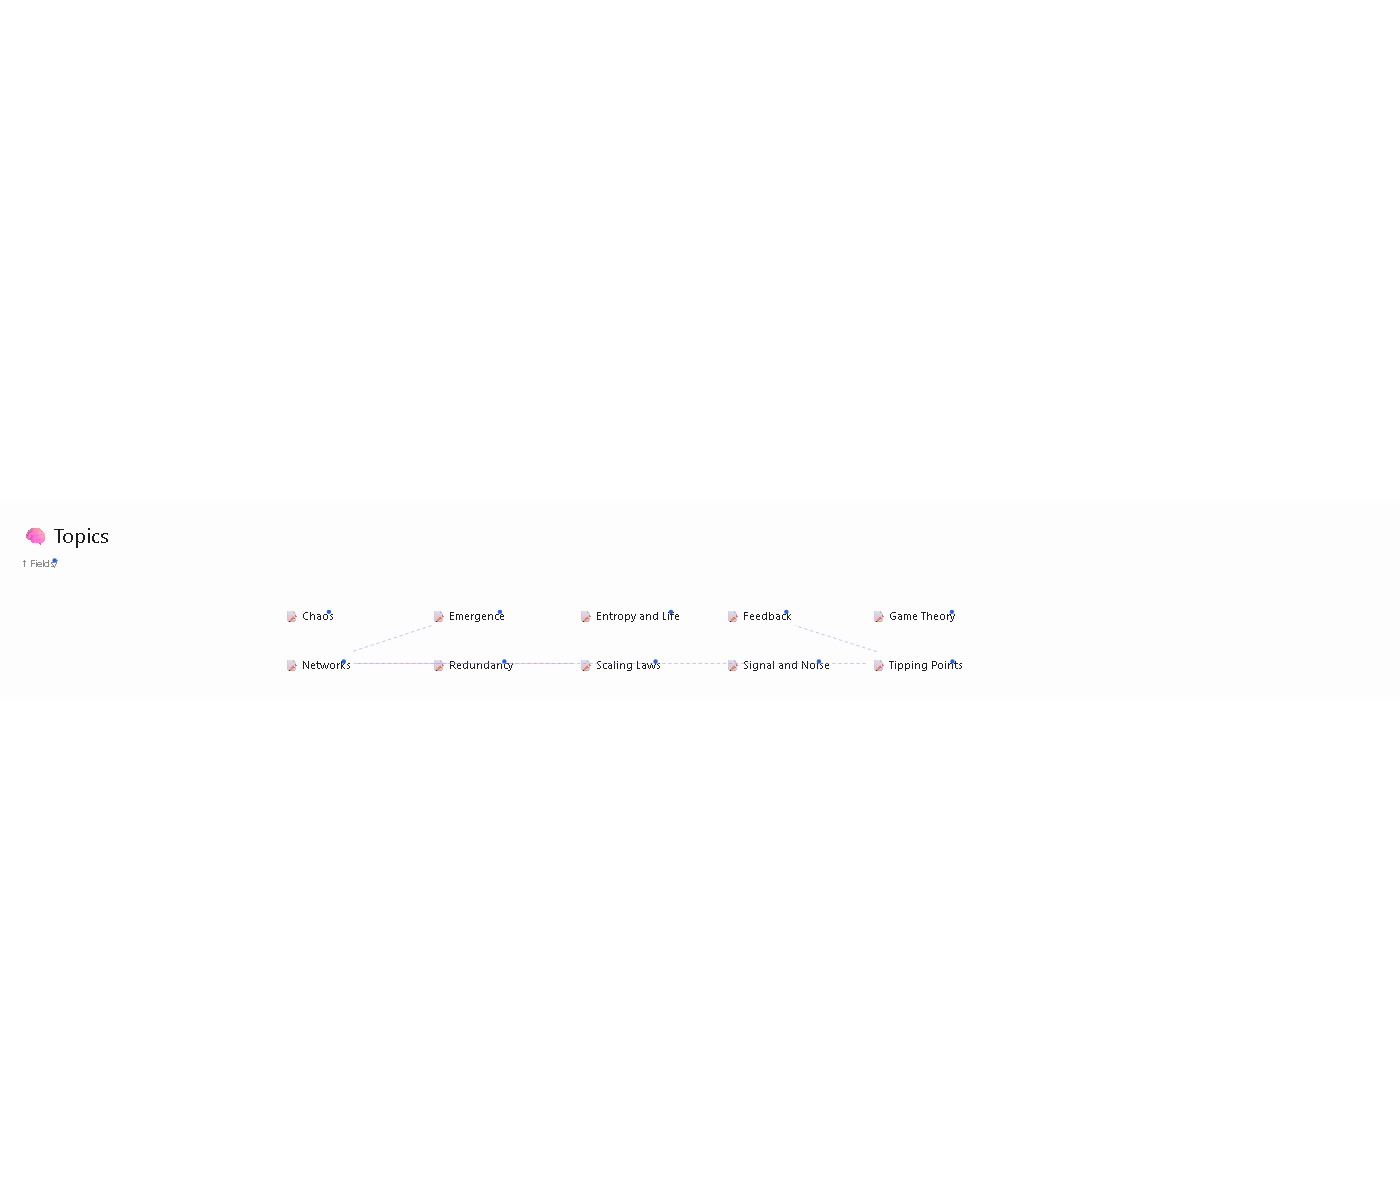
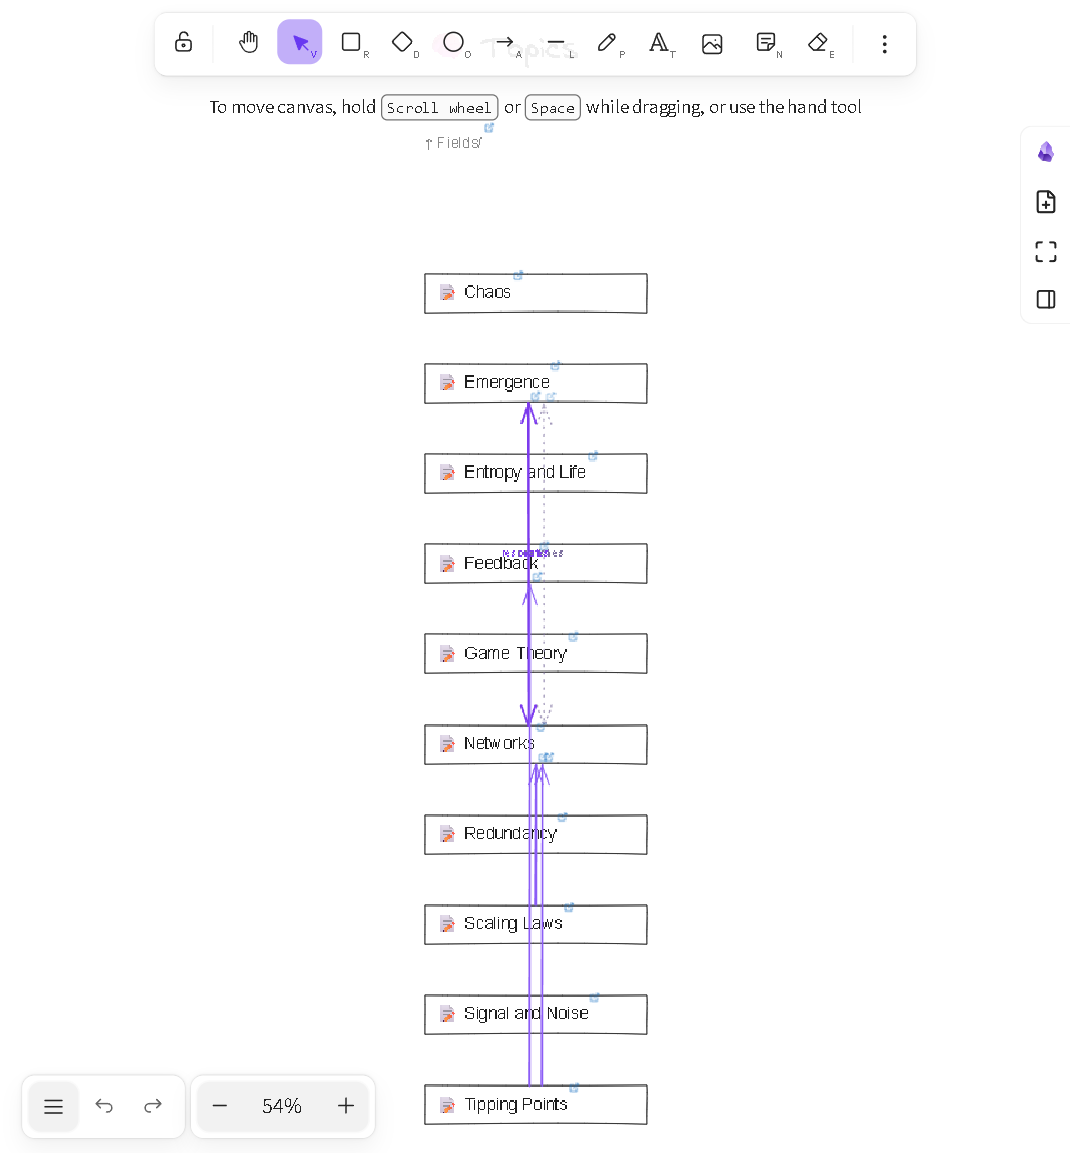
gallery: rebuilt around current system (mermaid map, fractal brain view, clean excalidraw maps)

diff --git a/docs/GALLERY.md b/docs/GALLERY.md
@@ -1,82 +1,78 @@
 # Gallery
 
-Every image below is rendered from a **real generated map** (or a real
-Obsidian screenshot) — no mockups. Reproduce any of them by installing the
-named example and running Fractal Index.
+Every image below is generated or captured from the **real running system** in a
+real vault — no mockups. Reproduce any of them: open a folder's brain map, or
+install the plugin and hit the waypoints ribbon icon.
 
 ---
 
-## Knowledge Garden — at scale
+## The brain map that renders anywhere
 
-### The map of maps (root, 8 pods, 21 arrows)
+```mermaid
+flowchart TB
+  classDef folder fill:#fff7ed,stroke:#c2410c,color:#1d1d1f,stroke-width:2px
+  classDef note fill:#ffffff,stroke:#64748b,color:#1d1d1f
+  classDef hub fill:#ecfdf5,stroke:#047857,color:#1d1d1f,stroke-width:2px
+  nGarden["📁 Garden"]:::hub
+  nGarden_Fields["📁 Fields"]:::folder
+  nGarden_Inbox["📁 Inbox"]:::folder
+  nGarden_Journal["📁 Journal"]:::folder
+  nGarden_Methods["📁 Methods"]:::folder
+  nGarden_People["📁 People"]:::folder
+  nGarden_Projects["📁 Projects"]:::folder
+  nGarden_Sources["📁 Sources"]:::folder
+  nGarden_Welcome_md["Welcome"]:::note
+  nGarden_Welcome_md -->|"feeds ×2"| nGarden_Fields
+  nGarden_Inbox -->|"nourishes ×2"| nGarden_Fields
+  nGarden_Sources -->|"nourishes ×2"| nGarden_Fields
+  nGarden_Welcome_md -->|"feeds"| nGarden_Inbox
+  nGarden_Welcome_md -->|"feeds"| nGarden_Methods
+  nGarden_Welcome_md -->|"feeds"| nGarden_Projects
+  nGarden_Journal -->|"feeds"| nGarden_Inbox
+```
+
+Generated per folder as `_index.map.md` — the diagram above is the actual
+file's Mermaid source, unchanged. Typed labeled edges; parallel relationships
+(`feeds ×2`, `nourishes ×2`) render as separate curves. Renders natively in
+Obsidian, on GitHub, and in the fullscreen `_index.map.html` runtime with
+pan/zoom.
+
+![Brain map rendered in Obsidian](images/garden-mermaid.png)
+
+The same file opened in Obsidian — reading mode renders it natively.
+
+---
+
+## The Fractal Brain view
+
+![Fractal Brain view](images/fractal-brain-view.png)
+
+The live graph over the notes: folders as expandable clusters, typed colored
+edges from connection notes, inferred wikilinks as dashed grey. Click a note to
+open it; click an edge to open that relationship's connection note; double-click
+a folder to expand it; full screen stays inside Obsidian.
+
+![Fractal Brain demo](images/fractal-brain.gif)
+
+Expand all, dive into the Fields cluster, then click the Inbox → Fields edge:
+its connection note opens beside the graph, properties and explanation visible.
+
+---
+
+## Excalidraw maps — the hand-arrangeable canvas
+
+### Garden — root overview
 
 ![Garden root map](images/garden-root.png)
 
-51 notes seen from orbit: the Welcome hub card on the left of the file grid,
-nine pods down the spine, and 21 purple arrows — 5 of them double-headed
-mutuals — including the Sources ⇄ Fields citation web and the Journal pod's
-fan-out. The strongest 60 of ~100 relationships, readable at a glance.
+Eight folders as clean pods, Welcome as a card, the strongest relationships
+drawn between pods, one legend line up top. Positions are stable: regenerate
+any time, nothing you arranged moves.
 
-### Fields — the literature pattern
-
-![Garden Fields map](images/garden-fields.png)
-
-Four field cards plus the Topics pod. All 6 arrows here are **mutual**
-(double-headed): fields and their sub-topics reference each other both ways,
-and the Topics pod exchanges edges with the field cards — the Zettelkasten
-pattern drawn by your own links.
-
-### Topics — hub visibility
+### Topics — vertical contents, typed arrows
 
 ![Garden Topics map](images/garden-topics.png)
 
-Ten atomic topic notes. Emergence (three arrows out) and Networks are the
-load-bearing ideas — you can see the hub before you read a word.
-
-### Sources — calm by design
-
-![Garden Sources map](images/garden-sources.png)
-
-Eight literature notes, zero arrows *at this level* — every link points to
-other folders, so they appear one level up as pod edges. This honesty is the
-anti-hairball rule: arrows live where both endpoints live.
-
----
-
-## Project Hub — cross-project dependencies
-
-![Projects root map](images/projects-root.png)
-
-The portfolio map: Roadmap card plus three pods, six dependency arrows
-including the cross-project edges (Mobile App → Shared, Mobile App →
-Website Redesign). No todo tool shows you this.
-
----
-
-## Research Brain — mutual pairs
-
-![Research Fields map](images/research-fields.png)
-
-Neuroscience ⇄ Complexity Science as one double-headed arrow, Physics ⇄
-Complexity Science, and two arrows rising from the Topics pod to field
-cards — children pointing at their parents.
-
----
-
-## Live in Obsidian
-
-### The dive
-
-![Dive state in Obsidian](images/dive-state.png)
-
-A real Obsidian window after clicking the Mobile App pod: the canvas has
-dived ~3.3× into that pod's embedded sub-map (click again to surface).
-Framed by the actual app chrome — this is the plugin, not a mockup.
-
-### The whole brain, really running
-
-![Live Obsidian map](images/live-obsidian.png)
-
-The Project Hub map open in Obsidian 1.14.4 with the Excalidraw plugin's
-native rendering — pods, embeds, dive chips, and link arrows as saved by
-the plugin itself.
+Ten atomic notes stacked like a contents list. The Emergence ⇄ Networks pair
+carries **two parallel labeled arrows** (resonates + nourishes): two
+relationships, two aspects, two lines. Arrows route alongside the column.
